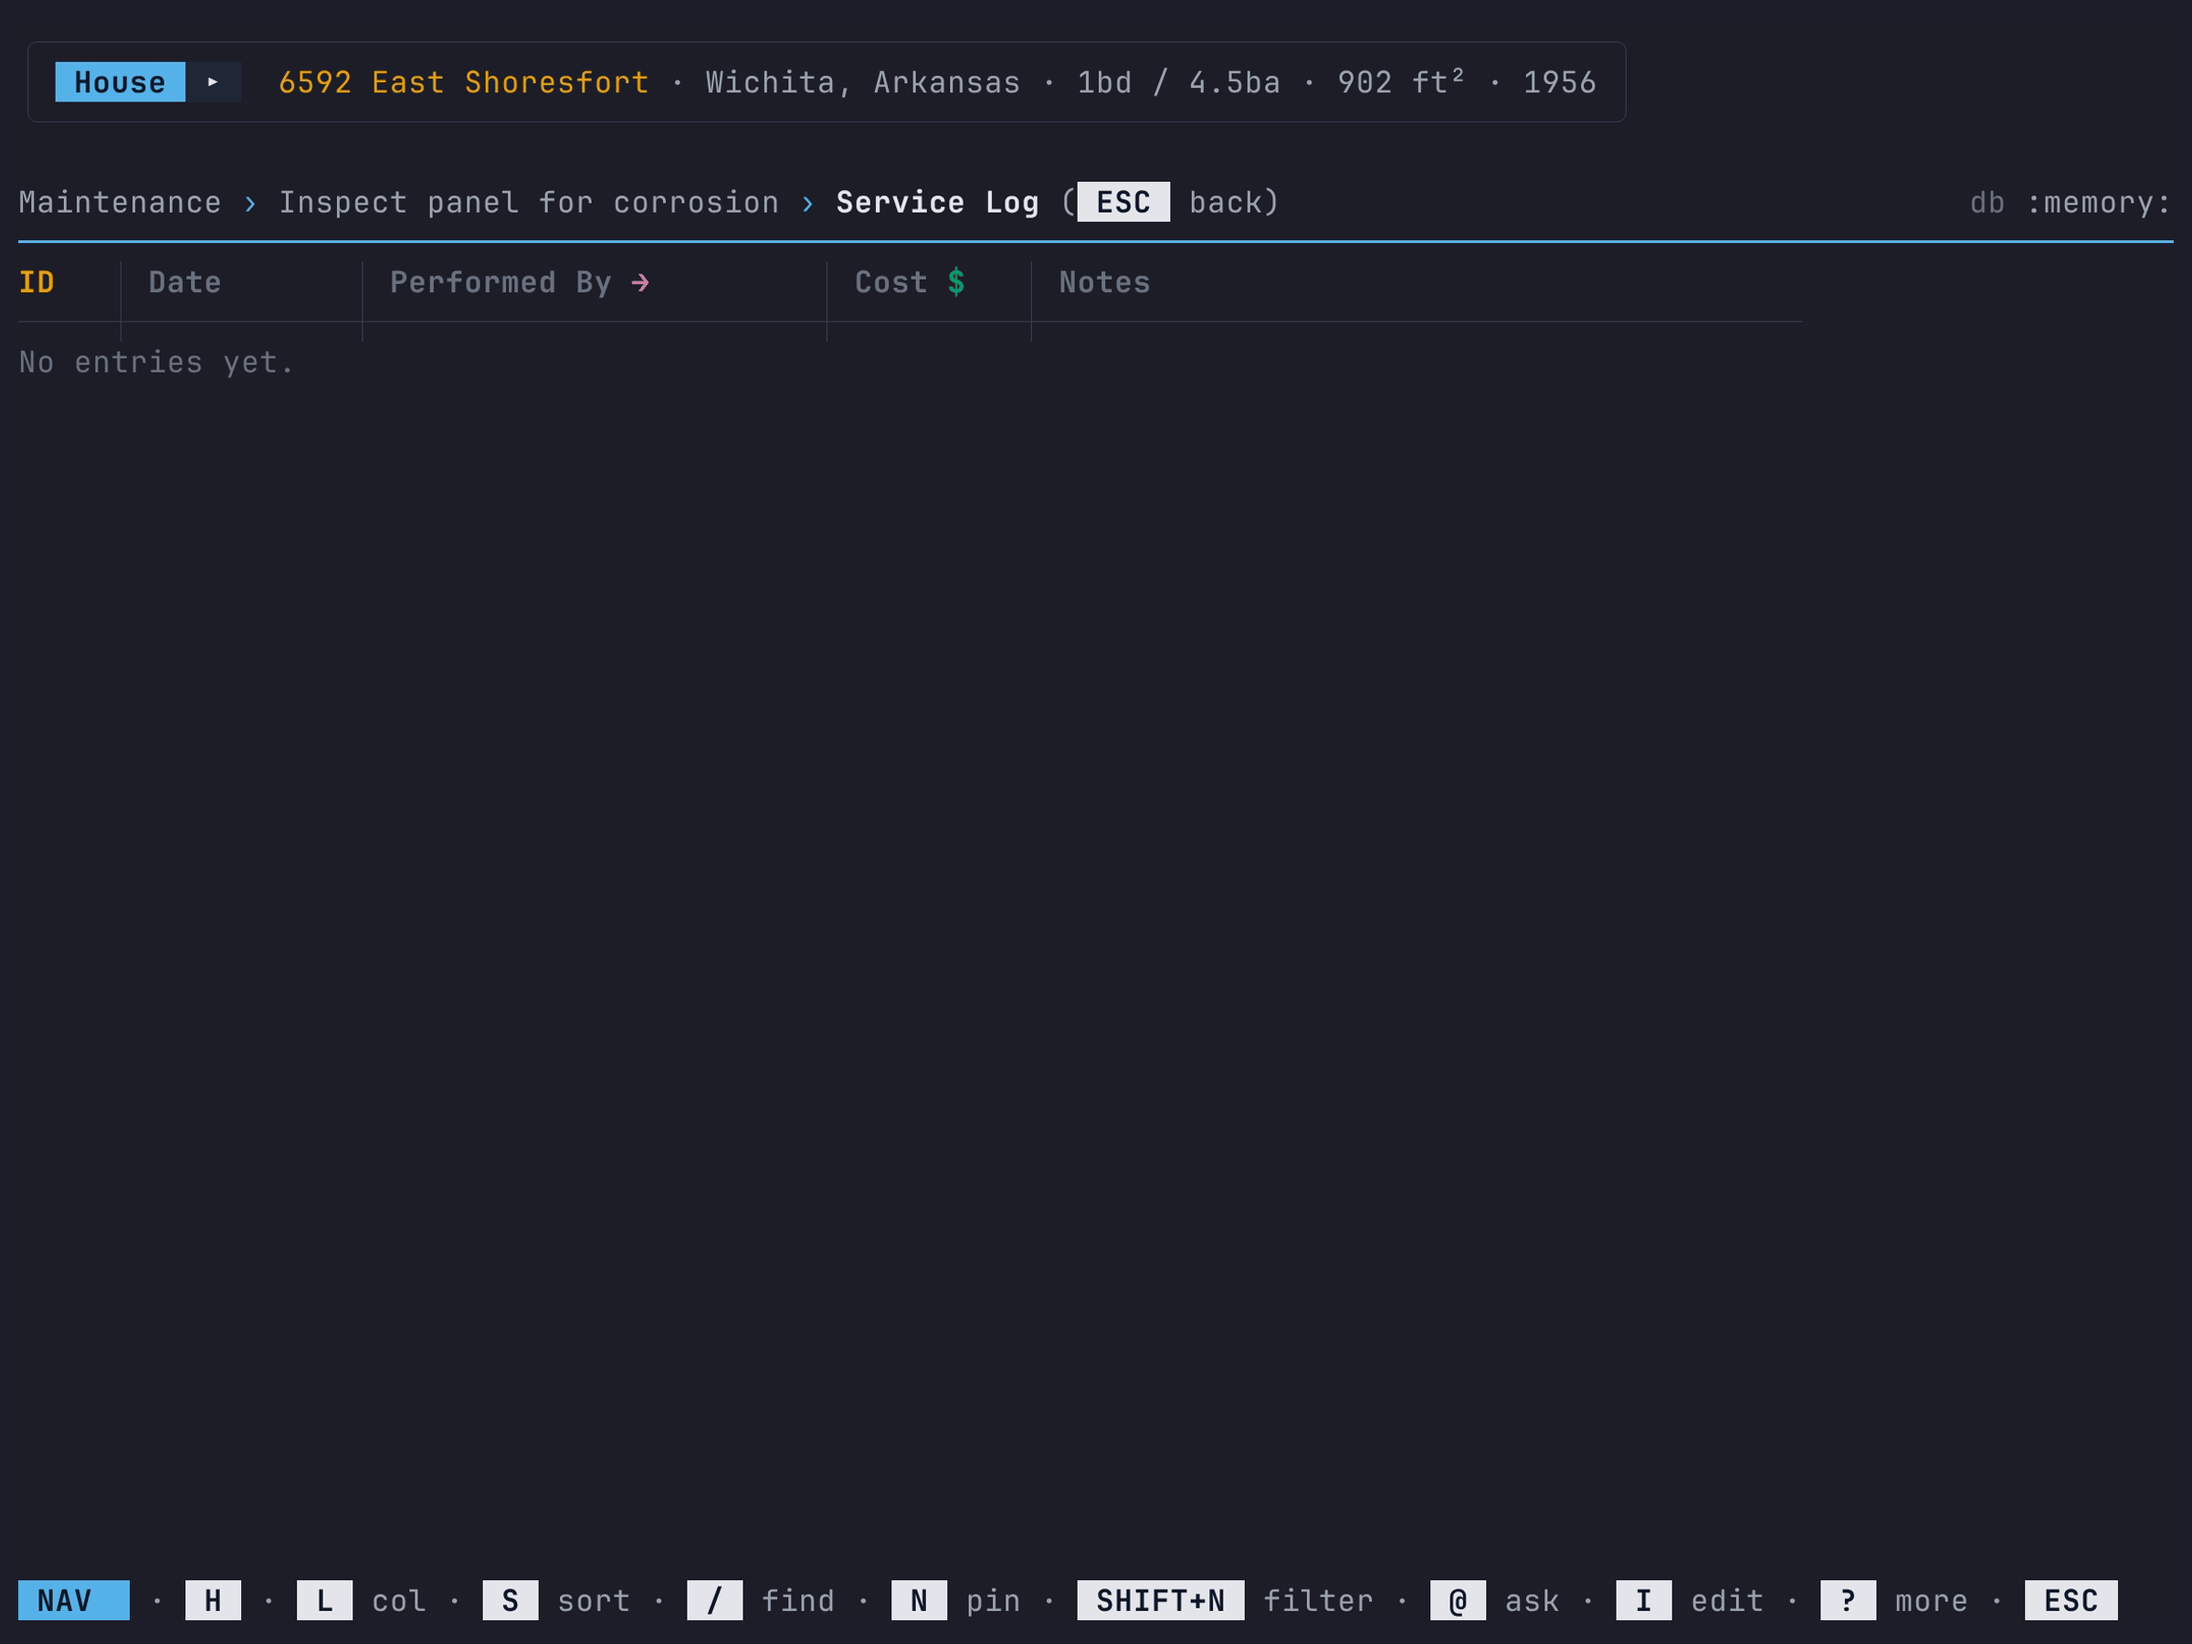
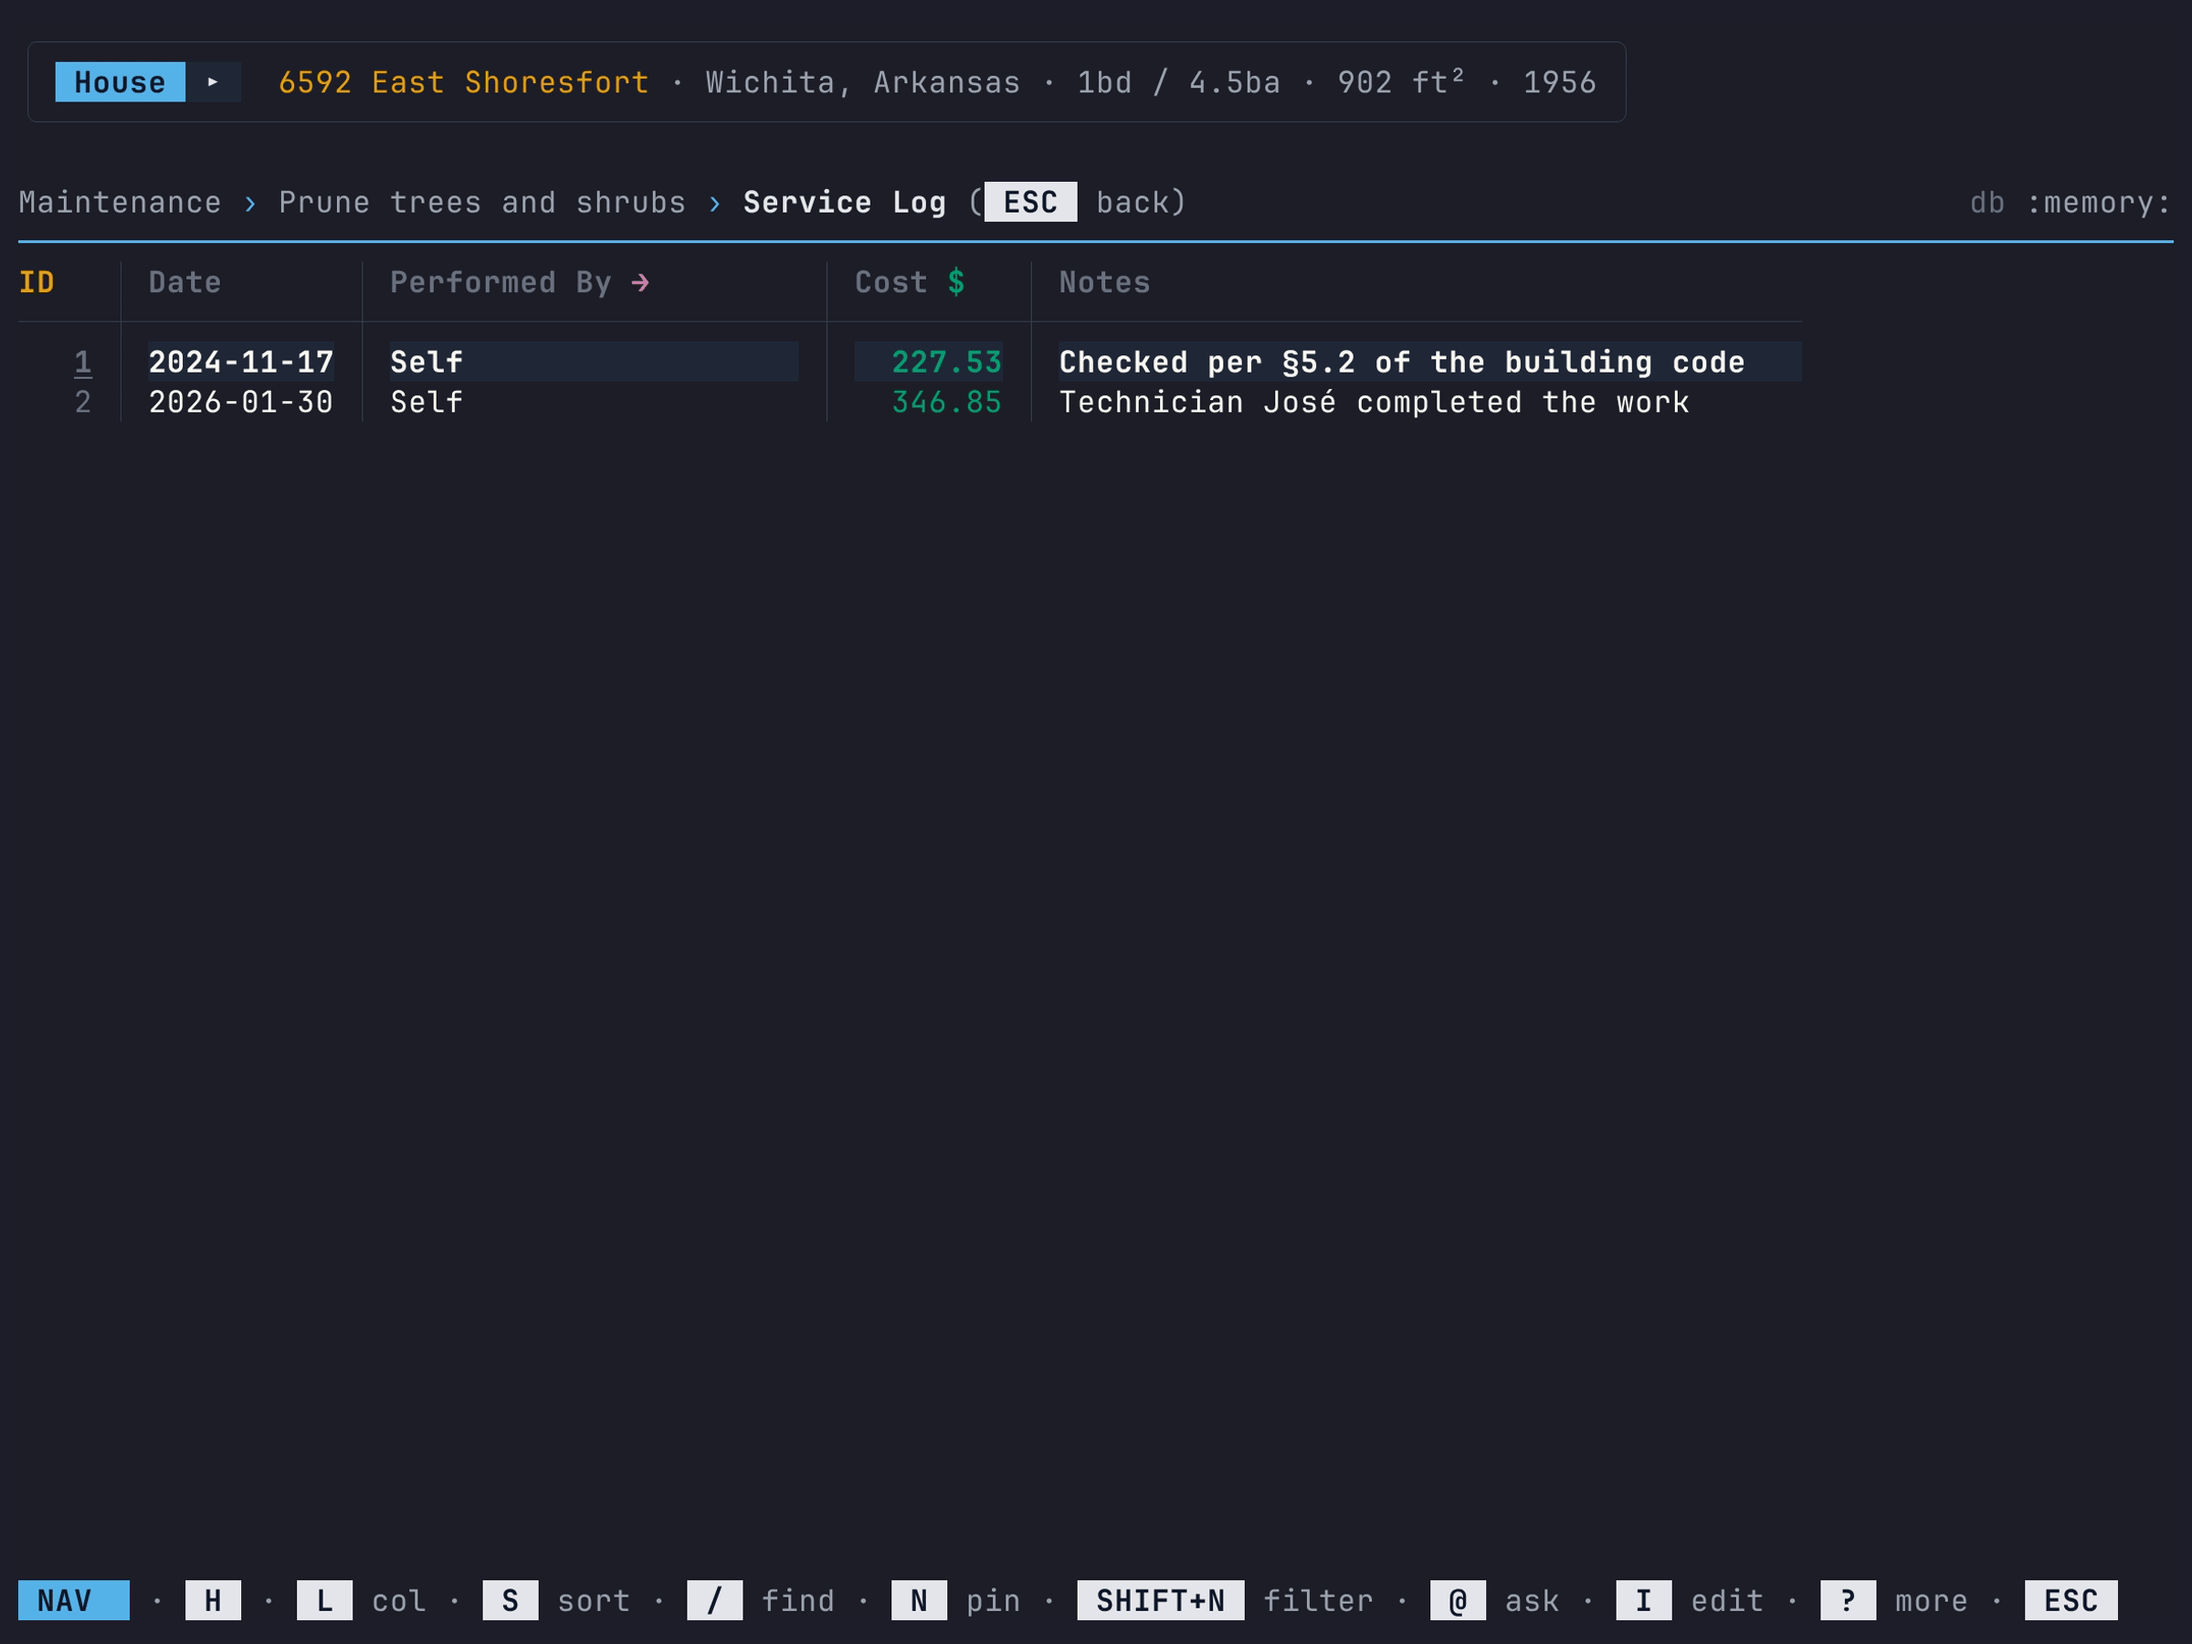
fix(data): seed service log entries for first maintenance items
The first 3 maintenance items now always get service log entries,
ensuring the service-log screenshot shows actual data instead of
"No entries yet."

Also remove orphaned help.tape/help.webp and sorting.tape/sorting.webp
(replaced by using-navigation and using-sorting animated demos), and
strip success fluff from nix scripts.

Closes #223

diff --git a/internal/data/store.go b/internal/data/store.go
@@ -307,9 +307,9 @@ func (s *Store) SeedDemoDataFrom(h *fake.HomeFaker) error {
 		}
 	}
 
-	// Service log entries: 1-3 entries for ~60% of maintenance items.
+	// Service log entries: first 3 always get entries, rest ~60% chance.
 	for i := range maintItems {
-		if h.IntN(10) >= 6 {
+		if i >= 3 && h.IntN(10) >= 6 {
 			continue
 		}
 		nEntries := 1 + h.IntN(3)
